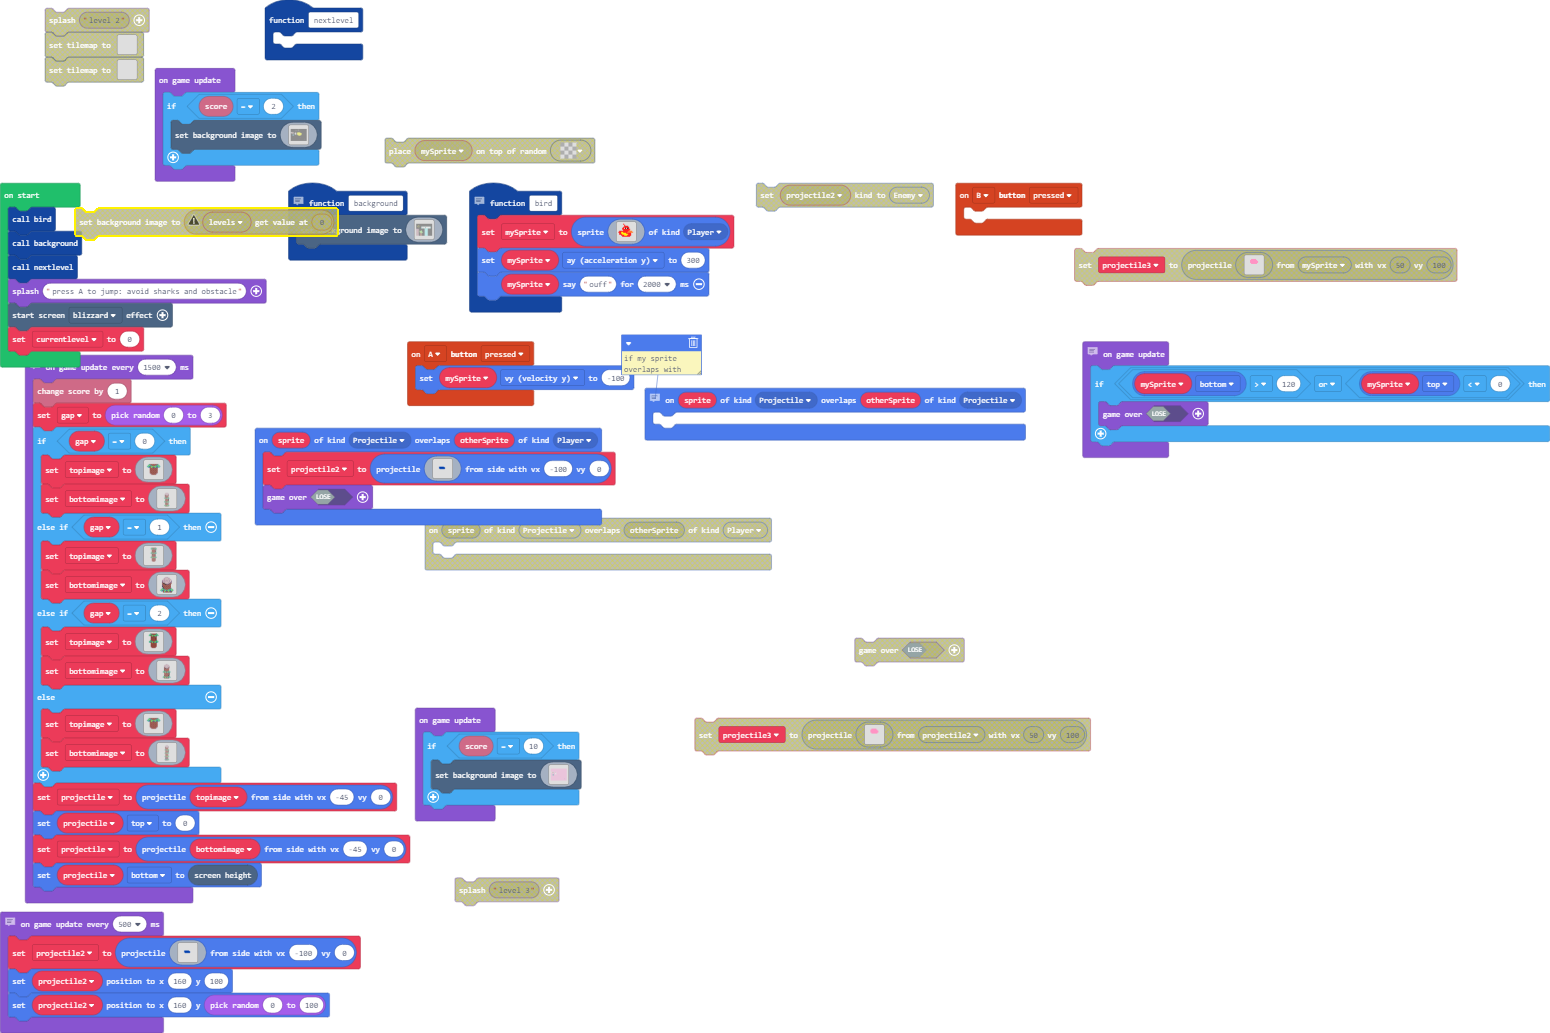
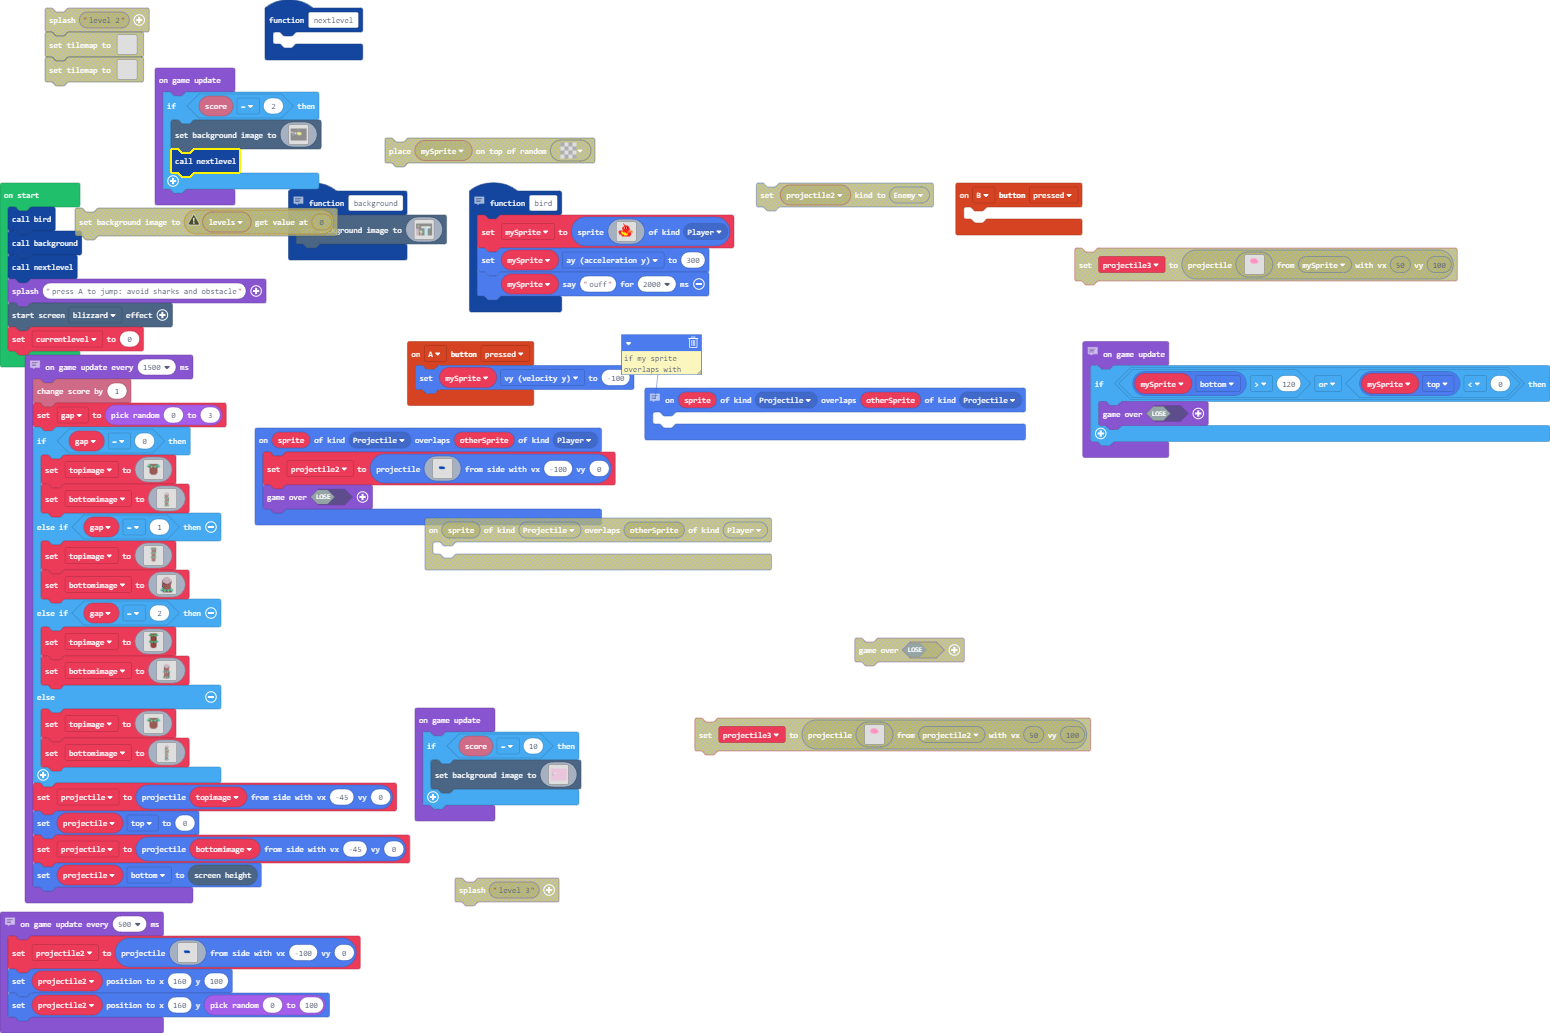
Update main.blocks, main.ts

diff --git a/main.ts b/main.ts
@@ -19,9 +19,6 @@ namespace myTiles {
 . . . . . . . . . . . . . . . . 
 `
 }
-function nextlevel () {
-	
-}
 controller.B.onEvent(ControllerButtonEvent.Pressed, function () {
 	
 })
@@ -157,6 +154,9 @@ controller.A.onEvent(ControllerButtonEvent.Pressed, function () {
 sprites.onOverlap(SpriteKind.Projectile, SpriteKind.Projectile, function (sprite, otherSprite) {
 	
 })
+function nextlevel () {
+	
+}
 // my sprite
 function bird () {
     mySprite = sprites.create(img`
@@ -663,6 +663,7 @@ f f f f f f f f f f f f f f f f f f f f f f f f f f f f f f f f f f f f f f f f 
 f f f f f f f f f f f f f f f f f f f f f f f f f f f f f f f f f f f f f f f f f f f f f f f f f f f f f f f f f f f f f f f f f f f f f f f f f f f f f f f f f f f f f f f f f f f f f f f f f f f f f f f f f f f f f f f f f f f f f f f f f f f f f f f f f f f f f f f f f f f f f f f f f f f f f f f f f f f f f f f f 
 f f f f f f f f f f f f f f f f f f f f f f f f f f f f f f f f f f f f f f f f f f f f f f f f f f f f f f f f f f f f f f f f f f f f f f f f f f f f f f f f f f f f f f f f f f f f f f f f f f f f f f f f f f f f f f f f f f f f f f f f f f f f f f f f f f f f f f f f f f f f f f f f f f f f f f f f f f f f f f f f 
 `)
+        nextlevel()
     }
 })
 // if sprite touches the top or bottom of map game
